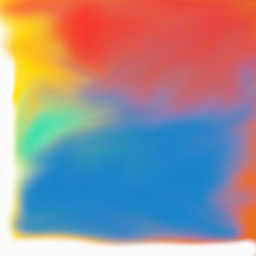
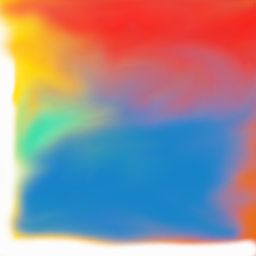
add moving fire

diff --git a/Vulkan/src/Renderer.cpp b/Vulkan/src/Renderer.cpp
@@ -21,6 +21,9 @@ static ImGui_ImplVulkanH_Window g_MainWindowData;
 static int                      g_MinImageCount = 2;
 ImGui_ImplVulkanH_Window* g_wd;
 static float g_tValue = 0; 
+static float vel = 0; 
+static float acceleration = 2;
+static  glm::vec3 pos = glm::vec3(0,0,0);
 
 static void check_vk_result(VkResult err)
 {
@@ -265,7 +268,7 @@ void Renderer::ImguiInit()
 }
 
 //reset and re-record command buffer usage mode
-void Renderer::Render(float time)
+void Renderer::Render(float time,float deltaTime)
 {
 	m_device.waitForFences(1, &m_swapchainFrames[frameNumber].inFlight, VK_TRUE, UINT64_MAX);
 	m_device.resetFences(1, &m_swapchainFrames[frameNumber].inFlight);
@@ -278,7 +281,7 @@ void Renderer::Render(float time)
 
 	commandBuffer.reset();
 	
-	PrepareFrame(imageIndex,time);
+	PrepareFrame(imageIndex,time, deltaTime);
 
 	RecordDrawCommands(commandBuffer, imageIndex);
 
@@ -643,7 +646,7 @@ void Renderer::RecordDrawCommands(vk::CommandBuffer commandBuffer, uint32_t imag
 	ImGui::NewFrame();
 
 	ImGui::Begin("Hello");
-	ImGui::SliderFloat("t_value", &g_tValue,0,1);
+	ImGui::SliderFloat("t_value", &g_tValue,0,0.98);
 	ImGui::End();
 	ImGui::Render();
 	ImDrawData* main_draw_data = ImGui::GetDrawData();
@@ -818,7 +821,7 @@ glm::mat4 PreparePerspectiveProjectionMatrix(float aspect_ratio,
 }
 
 #include<gtc/matrix_access.hpp>
-void Renderer::PrepareFrame(uint32_t imageIndex,float time)
+void Renderer::PrepareFrame(uint32_t imageIndex,float time,float deltaTime)
 {
 	glm::vec3 posCamera = { .0f, 0.0f,-2.0f };
 	glm::vec3 target = { 0.0f, 0.0f, 0.0f };
@@ -838,7 +841,7 @@ void Renderer::PrepareFrame(uint32_t imageIndex,float time)
 	
 	 // view matrix  is inverse(transpose) of camera transform matrix that moves objects to world zero coordinates
 	 // direction of z is specified by handiness of world system (resulr of cross product)
-     glm::mat4 cameraWorld{ glm::vec4{1,0,0,0},glm::vec4{glm::vec4{0,-1,0,0}},glm::vec4{0,0,-1,0},glm::vec4{0,0,12,1} };
+     glm::mat4 cameraWorld{ glm::vec4{1,0,0,0},glm::vec4{glm::vec4{0,-1,0,0}},glm::vec4{0,0,-1,0},glm::vec4{0,0,2,1} };
      view = glm::inverse(cameraWorld);
 	
 	glm::mat4 projCustom = PreparePerspectiveProjectionMatrix(aspect, 45.0, 0.001f, 100.0f);
@@ -865,13 +868,27 @@ void Renderer::PrepareFrame(uint32_t imageIndex,float time)
 	auto worldSpaceCoords = translate * test;
 
 	
+	auto input =glm::vec2( glfwGetKey(m_window,GLFW_KEY_A), glfwGetKey(m_window, GLFW_KEY_D));
+	input.y *= -1;
+	auto inputHoriz = input.x + input.y;
+	vel += inputHoriz * acceleration * deltaTime;
+	// add resist
+	vel -= vel*0.01/6;
+	pos.x= vel*deltaTime + pos.x;
+	
 
+
+	std::cout << pos.x << "\n";
 	m_swapchainFrames[imageIndex].cameraData.view = view;
 	m_swapchainFrames[imageIndex].cameraData.projection = projection;
 	//translate *= glm::rotate(glm::mat4(1.f), glm::radians(0.f), glm::vec3(0.0f, 1.0f, 0.0f));
 	m_swapchainFrames[imageIndex].cameraData.viewProjection = projCustom * view;
+
+	m_swapchainFrames[imageIndex].cameraData.world = glm::translate(glm::mat4(1.f), pos);
+	
 	m_swapchainFrames[imageIndex].cameraData.t = g_tValue;
 	m_swapchainFrames[imageIndex].cameraData.time = time;
+	m_swapchainFrames[imageIndex].cameraData.sign= -vel;
 	//m_swapchainFrames[imageIndex].cameraData.viewProjection = projection;
 	//m_swapchainFrames[imageIndex].cameraData.viewProjection = ortho;
 	

diff --git a/Vulkan/src/Renderer.h b/Vulkan/src/Renderer.h
@@ -12,7 +12,7 @@ class Renderer
 public:
 	Renderer(int width, int height, GLFWwindow* window,bool debug);
 	~Renderer();
-	void Render(float time);
+	void Render(float time, float deltaTime);
 	void ImguiInit();
 private:
 	void BuildWindow();
@@ -40,7 +40,7 @@ private:
 	void MakeAssets();
 
 	void PrepareScene(vk::CommandBuffer commandBuffer);
-	void PrepareFrame(uint32_t imageIndex,float time);
+	void PrepareFrame(uint32_t imageIndex,float time, float deltaTime);
 
 private:
 	bool m_debug;

diff --git a/Vulkan/src/Image.cpp b/Vulkan/src/Image.cpp
@@ -136,7 +136,7 @@ void vkImage::Texture::make_sampler() {
 	*/
 	vk::SamplerCreateInfo samplerInfo;
 	samplerInfo.flags = vk::SamplerCreateFlags();
-	samplerInfo.minFilter = vk::Filter::eNearest;
+	samplerInfo.minFilter = vk::Filter::eLinear;
 	samplerInfo.magFilter = vk::Filter::eLinear;
 	samplerInfo.addressModeU = vk::SamplerAddressMode::eRepeat;
 	samplerInfo.addressModeV = vk::SamplerAddressMode::eRepeat;

diff --git a/Vulkan/src/App.cpp b/Vulkan/src/App.cpp
@@ -32,14 +32,15 @@ void App::build_glfw_window(int width, int height, bool debugMode) {
 		}
 	}
 }
-
+static float deltaTime = 0;
 void App::run() {
 
 	while (!glfwWindowShouldClose(window)) {
 		float time = glfwGetTime();
 		glfwPollEvents();
-		graphicsEngine->Render(time);
+		graphicsEngine->Render(time,deltaTime);
 		calculateFrameRate();
+		deltaTime = glfwGetTime () - time;
 	}
 }
 

diff --git a/Vulkan/src/Frame.h b/Vulkan/src/Frame.h
@@ -8,8 +8,10 @@ namespace vkUtil
 		glm::mat4 view;
 		glm::mat4 projection;
 		glm::mat4 viewProjection;
+		glm::mat4 world;
 		float t;
 		float time;
+		float sign;
 	};
 
 	struct SwapChainFrame {
